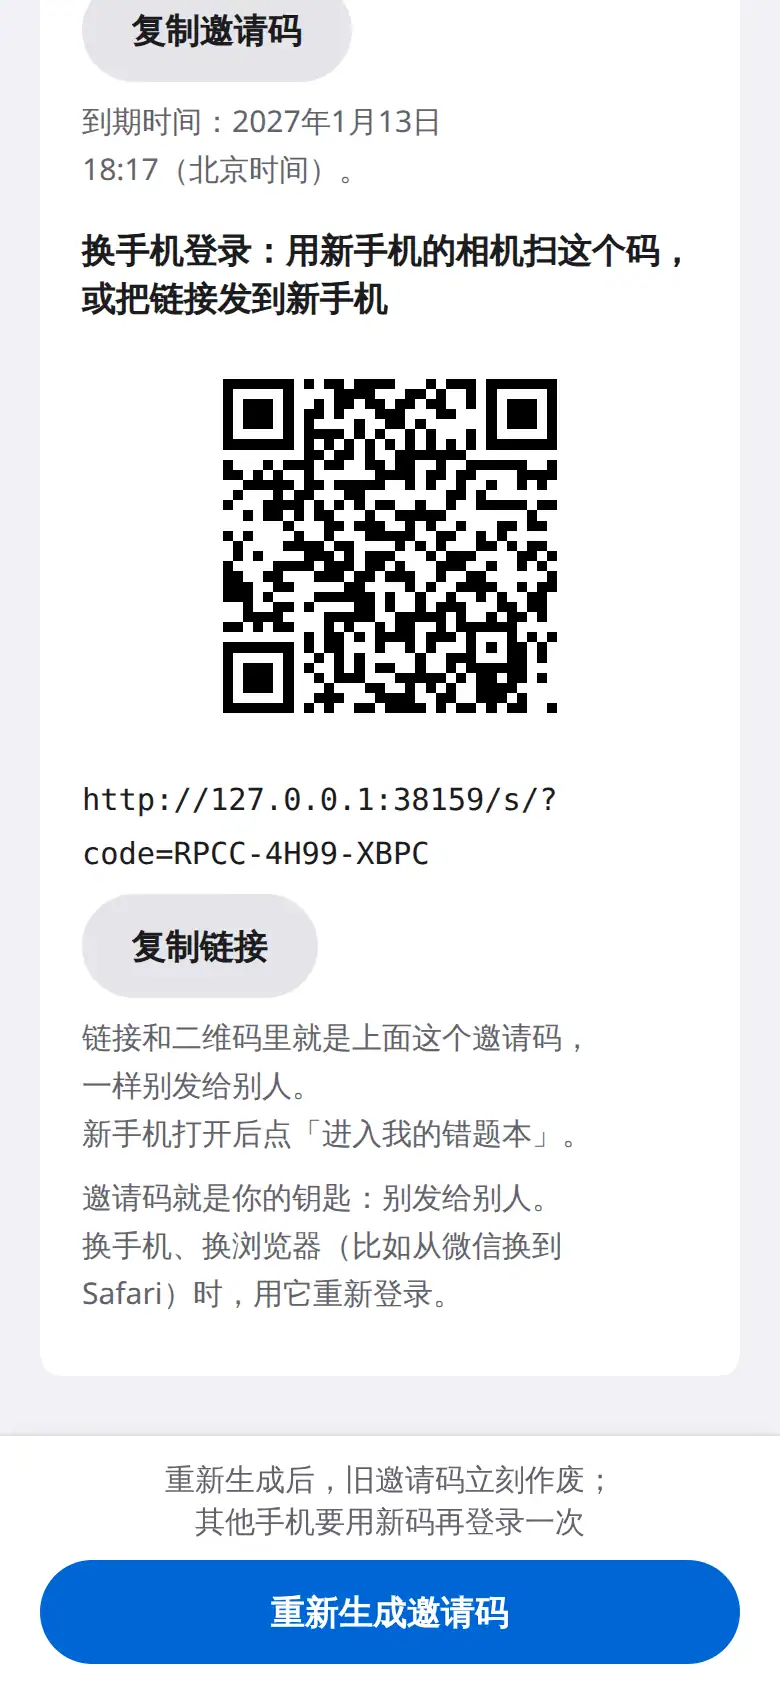
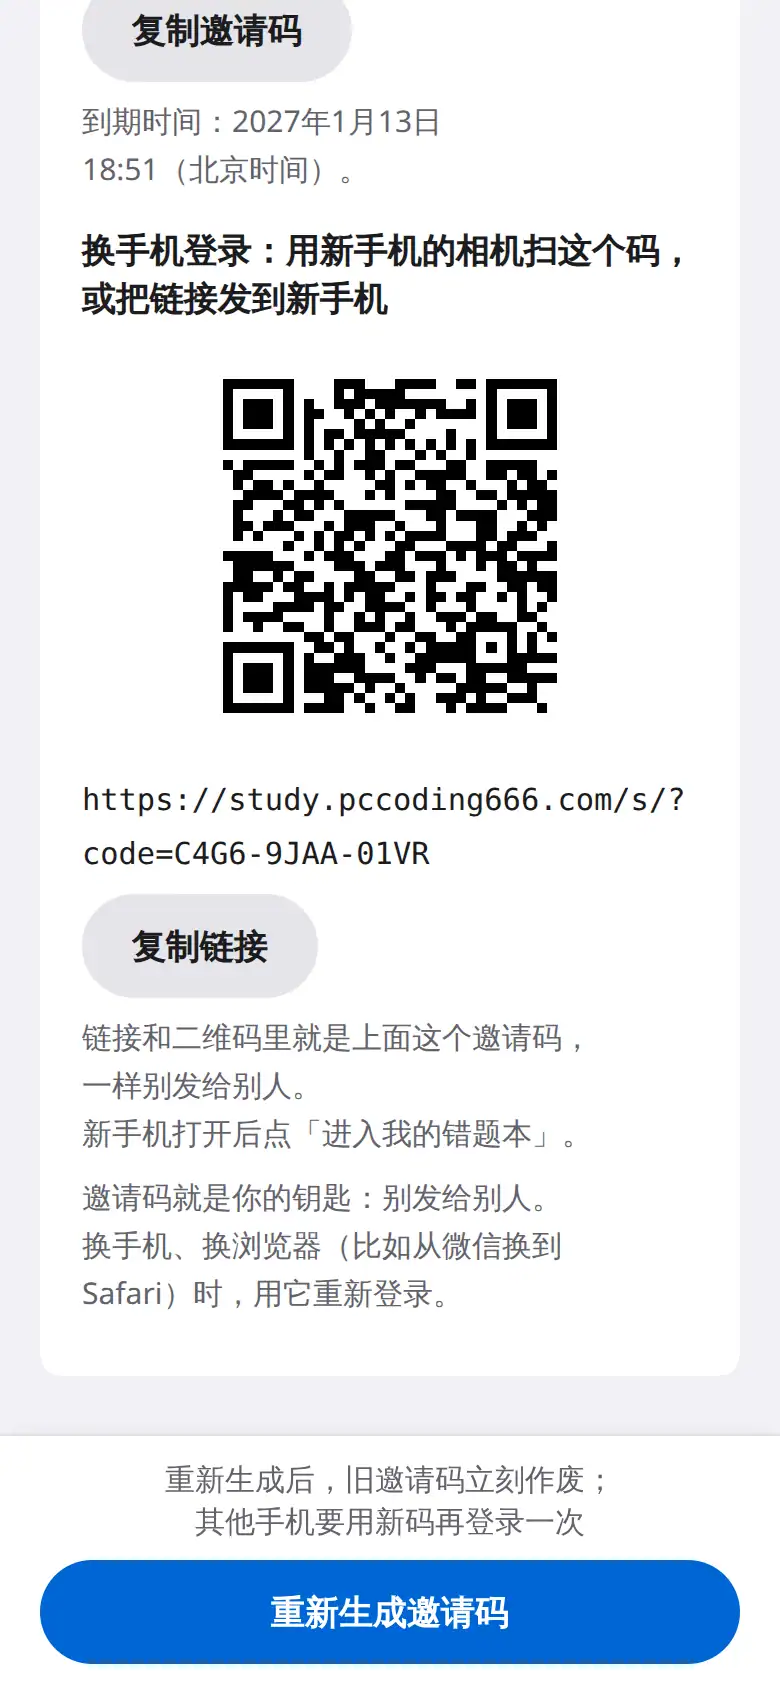
fix(help): show the public login link and a full home screen
The invite-code shot now uses https://study.pccoding666.com with a synthetic code. The home-screen image keeps the phone layout and leaves only 超级错题本 sharp. Add-to-home copy no longer mentions the manifest or the service worker.

Changed region(s): [[0.2769, 0.2156, 0.7077, 0.4313], [0.1846, 0.4621, 0.8615, 0.5237], [0.1538, 0.0924, 0.2154, 0.1232]]

diff --git a/src/portal/helpPortal.ts b/src/portal/helpPortal.ts
@@ -491,7 +491,7 @@ footer p { margin: 0 0 6px; }
       <div class="section-head">
         <p class="kicker">放到桌面</p>
         <h2>添加到手机桌面</h2>
-        <p>错题本是网页，带了主屏幕清单、图标和离线壳。请用系统浏览器打开，不要在微信里添加：微信里先点右上角「…」，选「在浏览器打开」或「在 Safari 中打开」。</p>
+        <p>错题本是网页，可以放到手机桌面上。请用系统浏览器打开，不要在微信里添加：微信里先点右上角「…」，选「在浏览器打开」或「在 Safari 中打开」。</p>
         <p class="url"><a href="${STUDY_URL}">${STUDY_URL}</a></p>
       </div>
       <div class="cards">
@@ -500,20 +500,20 @@ footer p { margin: 0 0 6px; }
           ${ANDROID_DIAGRAM}
           <div class="card-copy">
             <h3>安卓（小米、红米浏览器和 Chrome）</h3>
-            <p>用自带浏览器或 Chrome 打开学习页并登录，在菜单里点「添加到桌面」或「安装应用」，图标名是「错题本」。安卓上的清单故意用浏览器方式打开（manifest 的 display 是 browser），桌面图标会进浏览器标签，这样点相册和拍照时系统选择器才能弹出来；如果某个壳打不开相册，改用 Chrome 或系统浏览器再添加一次。</p>
+            <p>用自带浏览器或 Chrome 打开学习页并登录，在菜单里点「添加到桌面」或「安装应用」，图标名是「错题本」。桌面图标会打开浏览器页面，这样拍照和从相册选图才能用；如果点了没反应，改用 Chrome 或系统浏览器再添加到桌面一次。</p>
           </div>
         </article>
         <article class="card card-wide">
           ${IPHONE_DIAGRAM}
           <div class="card-copy">
             <h3>iPhone（Safari）</h3>
-            <p>必须用 Safari：点屏幕下方的「分享」（方框加向上箭头），往下找「添加到主屏幕」。前两步还是示意图；确认页和主屏幕图标在下面。iPhone 上清单是独立应用方式（display 为 standalone，页面也标记了可添加到主屏幕），从主屏幕打开是全屏；如果又要你登录，输入自己的邀请码，学习记录都在。</p>
+            <p>必须用 Safari：点屏幕下方的「分享」（方框加向上箭头），往下找「添加到主屏幕」。前两步还是示意图；确认页和主屏幕图标在下面。从主屏幕打开是全屏；如果又要你登录，输入自己的邀请码，学习记录都在。</p>
           </div>
         </article>
         ${card('iphone-confirm.webp', 'iPhone 添加到主屏幕的确认页。名称是超级错题本，地址是学习页，作为网页 App 打开是开着的。', '确认添加', '名称是「超级错题本」，地址是 <a href="' + STUDY_URL + '">' + STUDY_URL + '</a>。「作为网页 App 打开」保持打开，再点右上角「添加」。')}
         ${card('iphone-home.webp', '主屏幕上的超级错题本图标。', '在主屏幕上找到它', '添加完成以后，主屏幕上会出现「超级错题本」。以后从这里打开。')}
       </div>
-      <p class="note">清单地址是 /s/manifest.webmanifest。iPhone 主屏幕上的名称是「超级错题本」。Service Worker 只缓存页面外壳，不缓存你的错题和照片；没网时打不开新内容，已经传上去的都在服务器上。</p>
+      <p class="note">没网时打不开新内容，已经传上去的都还在。</p>
     </section>
 
     <section id="capture">

diff --git a/scripts/capture-help-guide.ts b/scripts/capture-help-guide.ts
@@ -47,7 +47,7 @@ async function save(page: Page, name: string): Promise<void> {
 function startHost(): { child: ChildProcess; ready: Promise<{ base: string; codes: string[] }> } {
   const child = fork(path.resolve('tests/e2e/studentHostServer.ts'), [], {
     execArgv: ['--import', 'tsx'],
-    env: { ...process.env, NODE_ENV: 'test', SEL_AI_MODE: 'mock', SEL_E2E_MATERIAL_CAPTURE: '1' },
+    env: { ...process.env, NODE_ENV: 'test', SEL_AI_MODE: 'mock', SEL_E2E_MATERIAL_CAPTURE: '1', SEL_HELP_CAPTURE_ORIGIN: 'https://study.pccoding666.com' },
     stdio: ['ignore', 'inherit', 'pipe', 'ipc'],
   });
   child.stderr?.on('data', chunk => process.stderr.write(chunk));
@@ -66,6 +66,19 @@ async function stopHost(child: ChildProcess): Promise<void> {
     child.once('exit', () => { clearTimeout(timer); resolve(); });
     if (child.connected) child.send({ stop: true }, () => {}); else child.kill('SIGTERM');
   });
+}
+
+/** 帮助页上的登录链接必须是公网入口，二维码编的是同一条链接。码来自合成夹具。 */
+async function captureAccount(page: Page, base: string): Promise<void> {
+  await page.goto(`${base}/s/account`);
+  await page.getByRole('heading', { name: '我的邀请码' }).waitFor();
+  await page.getByTestId('my-invite-qr').waitFor();
+  const link = (await page.getByTestId('my-invite-link').innerText()).replace(/\s+/g, '');
+  if (!link.startsWith('https://study.pccoding666.com/s/?code=')) throw new Error(`登录链接不是公网入口：${link}`);
+  if (link.includes('127.0.0.1') || link.includes('localhost')) throw new Error(`登录链接带了本机地址：${link}`);
+  await page.getByTestId('my-invite-link-block').evaluate((node: HTMLElement) => node.scrollIntoView({ block: 'center' }));
+  await page.waitForTimeout(300);
+  await save(page, 'account');
 }
 
 async function main(): Promise<void> {
@@ -112,13 +125,7 @@ async function main(): Promise<void> {
     }
 
     if (onlyShot === 'account') {
-      await page.goto(`${base}/s/account`);
-      await page.getByRole('heading', { name: '我的邀请码' }).waitFor();
-      await page.getByTestId('my-invite-qr').waitFor();
-      await page.getByTestId('my-invite-link').waitFor();
-      await page.getByTestId('my-invite-link-block').evaluate((node: HTMLElement) => node.scrollIntoView({ block: 'center' }));
-      await page.waitForTimeout(300);
-      await save(page, 'account');
+      await captureAccount(page, base);
       return;
     }
 
@@ -179,14 +186,7 @@ async function main(): Promise<void> {
     await page.getByText('即将推出').waitFor();
     await page.getByTestId('settings-my-invite').waitFor();
     await save(page, 'settings');
-    await page.goto(`${base}/s/account`);
-    await page.getByRole('heading', { name: '我的邀请码' }).waitFor();
-    // 登录链接和二维码只在本机看得到邀请码、且 Host 能拼出入口时出现。没出来就不要盖掉旧图。
-    await page.getByTestId('my-invite-qr').waitFor();
-    await page.getByTestId('my-invite-link').waitFor();
-    await page.getByTestId('my-invite-link-block').evaluate((node: HTMLElement) => node.scrollIntoView({ block: 'center' }));
-    await page.waitForTimeout(300);
-    await save(page, 'account');
+    await captureAccount(page, base);
     await page.goto(`${base}/s/install`);
     await page.getByRole('heading', { name: '放到主屏幕' }).waitFor();
     await save(page, 'install');

diff --git a/src/studentHost/router.ts b/src/studentHost/router.ts
@@ -47,7 +47,7 @@ import { sendHtml } from '../views/render.js';
 import { AccountPage, HostErrorPage, LoginPage, RecoveryPage, RegistrationPage, RegistrationCompletePage, registrationFieldErrors } from './loginView.js';
 import { CAPACITY_RETRY_SECONDS, CapacityWaitlist, capacityLines, capacityPageHtml } from './busyView.js';
 import { LiveStats } from './liveStats.js';
-import { CODE_QUERY_PARAM, isSafeHostHeader, loginLink, loginPageUrl, prefillCodeFromQuery } from './inviteLink.js';
+import { CODE_QUERY_PARAM, isSafeHostHeader, loginLink, loginPageUrl, prefillCodeFromQuery, resolvePublicOrigin } from './inviteLink.js';
 import { elapsedMs, errorSummary, logEvent, newRequestId, uaFamily } from '../observability/log.js';
 import { routeTemplate } from '../web/trail.js';
 
@@ -185,6 +185,12 @@ export interface StudentHostGatewayDeps {
   ipOf: (request: Request) => string;
   /** 公网入口的协议（带冒号，如 'https:'）；同源校验比对它。缺省按请求自身协议（本机测试 http:）。 */
   originScheme?: string;
+  /**
+   * 登录链接和二维码用的公网入口（如 https://study.pccoding666.com）。
+   * 只用于帮助页截图这类合成环境，让画面上的链接不是 127.0.0.1。不参与同源校验。
+   * 缺省仍按本次请求的 Host 拼。
+   */
+  linkOrigin?: string;
 }
 
 export interface StudentHostGatewayOptions {
@@ -275,6 +281,11 @@ export async function createStudentHostGateway(options: StudentHostGatewayOption
     const form = express.urlencoded({ extended: false, limit: '16kb', parameterLimit: 20 });
     const expectedScheme = deps.originScheme ?? 'http:';
     const isCrossSite = (request: Request): boolean => crossSite(request, expectedScheme);
+    const fixedLinkOrigin = (() => {
+      const raw = deps.linkOrigin?.trim();
+      if (!raw) return null;
+      try { return resolvePublicOrigin({}, raw); } catch { return null; }
+    })();
 
     r.use((request, response, next) => {
       // 请求 ID：网关生成、回给浏览器（x-sel-request-id）、交给 worker（内部头）；三边日志靠它对上。
@@ -321,7 +332,7 @@ export async function createStudentHostGateway(options: StudentHostGatewayOption
 
     const inApp = (request: Request): boolean => isInAppBrowserAgent(request.headers['user-agent']);
     /** 浏览器眼里的本站入口：协议由部署形态给出，主机来自 Host 头且只认安全形状；拼不出来返回 null（页面少一个复制按钮而已）。 */
-    const siteOrigin = (request: Request): string | null => (isSafeHostHeader(request.headers.host) ? `${expectedScheme}//${request.headers.host}` : null);
+    const siteOrigin = (request: Request): string | null => fixedLinkOrigin ?? (isSafeHostHeader(request.headers.host) ? `${expectedScheme}//${request.headers.host}` : null);
     /**
      * 登录页。只有 GET /s/?code=… 这一条路径会把查询串里的码预填进输入框（规范化后；别的路径、别的参数一律不看），
      * 微信里的「复制网址」也连码一起带上。这里只渲染，不兑换、不计限速、不记日志——查询串不会出现在任何日志里

diff --git a/tests/integration/studentAccounts.test.ts b/tests/integration/studentAccounts.test.ts
@@ -49,13 +49,13 @@ function openRegistry(dir = root(), now?: () => Date): StudentRegistry {
 }
 
 /** 网关 + 合成 IP（x-test-ip 只在测试夹具里被 ipOf 采信）。 */
-async function setup(options: { now?: () => Date; requireRegistrationCode?: boolean; failureDelayMs?: number } = {}) {
+async function setup(options: { now?: () => Date; requireRegistrationCode?: boolean; failureDelayMs?: number; linkOrigin?: string } = {}) {
   const dir = root();
   const registry = StudentRegistry.open(dir, options.now ? { now: options.now } : undefined);
   const gateway = await createStudentHostGateway({ registry, now: options.now, requireRegistrationCode: options.requireRegistrationCode ?? false, failureDelayMs: options.failureDelayMs });
   gateways.push(gateway);
   const app = express();
-  app.use('/s', gateway.router({ limiter: new RateLimiter(), ipOf: request => String(request.headers['x-test-ip'] ?? '192.0.2.10') }));
+  app.use('/s', gateway.router({ limiter: new RateLimiter(), ipOf: request => String(request.headers['x-test-ip'] ?? '192.0.2.10'), linkOrigin: options.linkOrigin }));
   const server = app.listen(0, '127.0.0.1');
   servers.push(server);
   await new Promise<void>(resolve => server.once('listening', resolve));
@@ -826,6 +826,21 @@ describe('预填邀请码的登录链接（/s/?code=…）', () => {
     expect(hidden).toContain('data-testid="invite-code-unavailable"');
     expect(hidden).not.toContain('my-invite-link');
     expect(hidden).not.toContain('my-invite-qr');
+  });
+
+  it('指定公网入口时，登录链接和二维码用这个入口，不带本机地址', async () => {
+    const origin = 'https://study.pccoding666.com';
+    const env = await setup({ linkOrigin: origin });
+    const registered = await env.post('/s/register', { name: '测试学生甲', phone: '13800002222', ...pinField });
+    const code = codeFrom(await registered.text());
+    const cookie = sessionCookie(await env.post('/s/login', { code }));
+    const html = await (await env.get('/s/account', { cookie })).text();
+    const link = `${origin}/s/?code=${code}`;
+    expect(html).toContain(`>${link}<`);
+    expect(html).not.toContain('127.0.0.1');
+    expect(html).not.toContain('localhost');
+    const qr = qrSvg(encodeQr(link).modules);
+    expect(html).toContain(`d="${qr.path}"`);
   });
 });
 

diff --git a/tests/e2e/studentHostServer.ts b/tests/e2e/studentHostServer.ts
@@ -9,6 +9,7 @@ import { pathToFileURL } from 'node:url';
 import { StudentRegistry } from '../../src/studentHost/registry.js';
 import { StudentWorkerPool } from '../../src/studentHost/workers.js';
 import { createStudentHostGateway } from '../../src/studentHost/router.js';
+import { resolvePublicOrigin } from '../../src/studentHost/inviteLink.js';
 import { RateLimiter } from '../../src/mobile/rateLimit.js';
 
 const root = fs.mkdtempSync(path.join(os.tmpdir(), 'sel-invite-browser-'));
@@ -34,7 +35,10 @@ const fixtureEnv = process.env.SEL_E2E_MATERIAL_JOURNEY === '1' ? { SEL_E2E_MATE
 const pool = new StudentWorkerPool({ dirFor: id => registry.studentDir(id), env: { ...fixtureEnv, NODE_ENV: 'test', SEL_AI_MODE: 'mock', SEL_STUDENT_WORKER_FAKE: '1', SEL_E2E_LEGACY_CAPTURE: process.env.SEL_E2E_MATERIAL_CAPTURE === '1' ? '0' : '1', SEL_E2E_MATERIAL_DELAY: process.env.SEL_E2E_MATERIAL_CAPTURE === '1' ? '1' : '0' } });
 const gateway = await createStudentHostGateway({ registry, pool, requireRegistrationCode: false });
 const app = express();
-app.use('/s', gateway.router({ limiter: new RateLimiter(), ipOf: req => req.socket.remoteAddress ?? '127.0.0.1' }));
+const linkOrigin = process.env.SEL_HELP_CAPTURE_ORIGIN?.trim()
+  ? resolvePublicOrigin(process.env, process.env.SEL_HELP_CAPTURE_ORIGIN)
+  : undefined;
+app.use('/s', gateway.router({ limiter: new RateLimiter(), ipOf: req => req.socket.remoteAddress ?? '127.0.0.1', linkOrigin }));
 const server = app.listen(0, '127.0.0.1');
 await new Promise<void>(resolve => server.once('listening', resolve));
 const base = `http://127.0.0.1:${(server.address() as { port: number }).port}`;

diff --git a/tests/integration/helpPortal.test.ts b/tests/integration/helpPortal.test.ts
@@ -81,8 +81,10 @@ describe('产品说明页文案', () => {
     expect(html).toContain('示意图');
     expect(html).toContain('添加到桌面');
     expect(html).toContain('添加到主屏幕');
-    expect(html).toContain('display 是 browser');
-    expect(html).toContain('/s/manifest.webmanifest');
+    expect(html).toContain('桌面图标会打开浏览器页面');
+    expect(html).not.toContain('manifest');
+    expect(html).not.toContain('Service Worker');
+    expect(html).not.toContain('standalone');
     expect(html).toContain('https://study.pccoding666.com/s/register');
     expect(html).toContain('https://study.pccoding666.com/s/recover');
     expect(html).toContain('4 位数字找回码');
